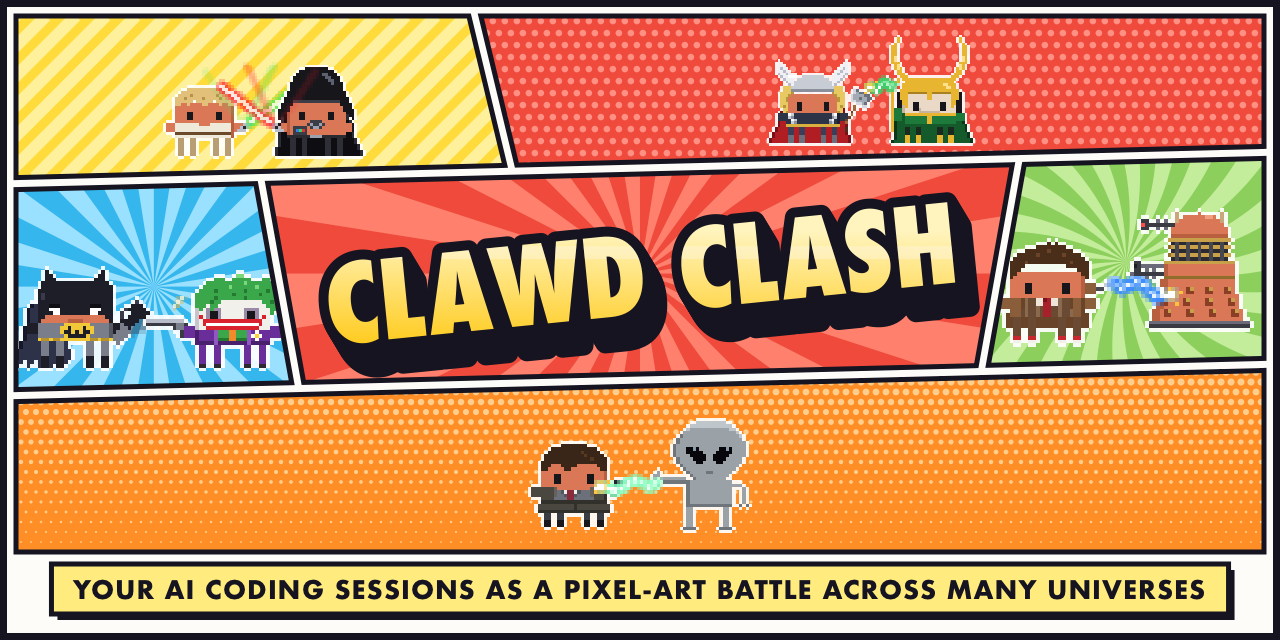
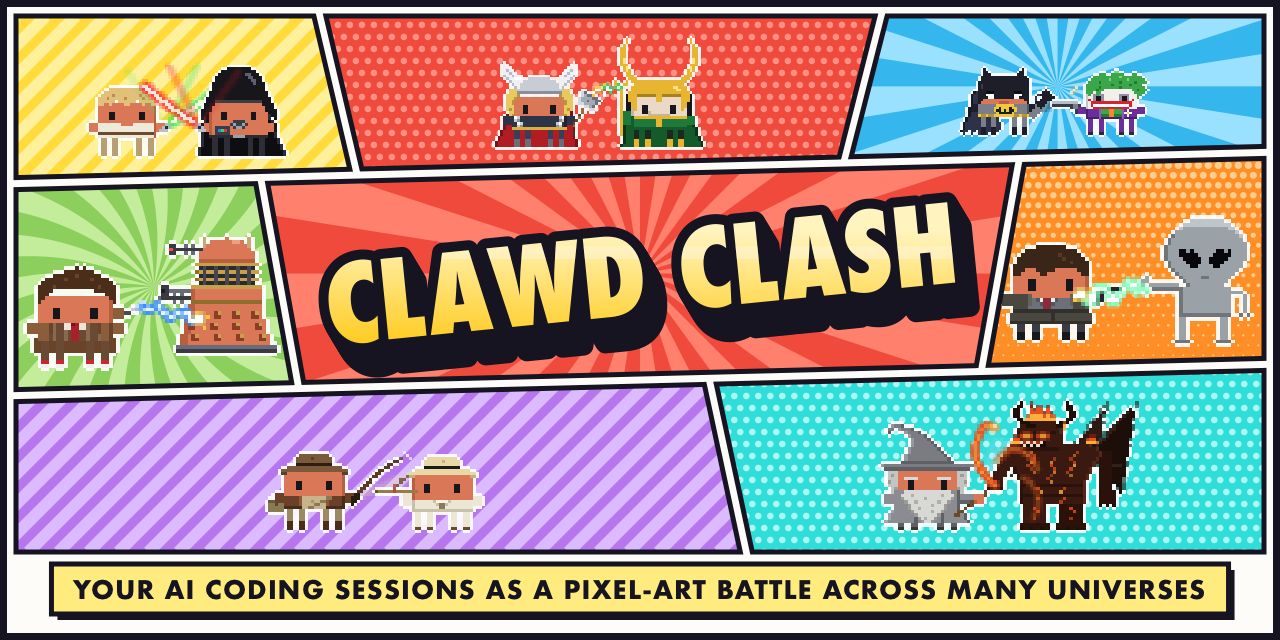
docs(social): Stevie Clawdberg and Clawd of the Rings join the social preview
docs/social-preview.png was last rendered on Oct 15 with five panels.
Two more Verses in Tools/MakeSocial (Indiana Bones v Rene Bellock in
the idol temple, Gandclawd v the Ballrog in Mori-ah), and style 8 lays
out seven panels on its own: three across the top, two flanking the
title, two along the bottom.

diff --git a/Tools/MakeSocial/main.swift b/Tools/MakeSocial/main.swift
@@ -4,7 +4,8 @@ import CoreText
 // Renders docs/social-preview.png (1280×640, GitHub → Settings → Social preview): a comic cover in slanted panels,
 // one per universe, each with a fight in full swing, drawn with the app's own sprite and fight-effect code: Luke and
 // Vader's sabers locked under the stars, Thor and Loki trading lightning and magic, Batman against the Joker, Doctor
-// Ten's sonic on a Dalick in the time vortex's blue, Fox Clawder against the Grey in the woods at night. CLAWD CLASH
+// Ten's sonic on a Dalick in the time vortex's blue, Fox Clawder against the Grey in the woods at night, Indiana Bones
+// against René Bellock, Gandclawd the Grey against the Ballrog. CLAWD CLASH
 // runs across them all, coloured by the panel each part is in, with a sound effect in each panel and the tagline in a
 // caption box. A new universe adds a panel: a cut, a centre, a sky, a floor, a fight, a sound and a face.
 //   swiftc Sources/App/{Pixel,Characters,Fights,Persona,Theme,Pose,Locations,Cast,Habits,Drills,Icon,Rides}.swift \
@@ -43,6 +44,10 @@ let allVerses: [Verse] = [
           burst: 0xFFB45A, face: (0xFFFFFF, 0x8FB8FF), sky: (0x2A4AC8, 0x0A0A2E), caption: "SOMEWHERE IN TIME…"),
     Verse(name: "THE CLAWD FILES", hero: .hero(FilesHero.foxClawder), villain: .villain(FilesVillain.grey), place: .bellefleurWoods, sound: "ZZZT!",
           burst: 0x9AF0C8, face: (0xFFFFFF, 0x6AE88A), sky: (0x2A5A44, 0x050A08), caption: "THE TRUTH IS OUT THERE…"),
+    Verse(name: "STEVIE CLAWDBERG", hero: .hero(ClawdbergHero.indianaBones), villain: .villain(ClawdbergVillain.reneBellock), place: .idolTemple,
+          sound: "CRACK!", burst: 0xFFD27A, face: (0xFFFFFF, 0xFFB43A), sky: (0xB8642A, 0x2A1208), caption: "IN A TEMPLE FAR AWAY…"),
+    Verse(name: "CLAWD OF THE RINGS", hero: .hero(RingsHero.gandalf), villain: .villain(RingsVillain.balrog), place: .moria, sound: "KA-THOOM!",
+          burst: 0xFF8A3A, face: (0xFFFFFF, 0xFFD27A), sky: (0x6A1E0A, 0x120604), caption: "DEEP IN THE MINES…"),
 ]
 /// `UNIVERSES=8` repeats the list up to that many, to see how a style holds up with more universes.
 let versesWanted = Int(ProcessInfo.processInfo.environment["UNIVERSES"] ?? "") ?? 0

diff --git a/CHANGELOG.md b/CHANGELOG.md
@@ -12,6 +12,7 @@ Doctor Clawd, the fourth, was made for Clawd Clash ([doctor-clawd](https://githu
 ## Unreleased
 
 ### Added
+- **Clawd Clash's social preview has every universe.** The pop-art cover GitHub shows when the repo is shared (`docs/social-preview.png`, from `Tools/MakeSocial`) had five panels, from before Stevie Clawdberg and Clawd of the Rings. It now has seven: Indiana Bones against René Bellock, and Gandclawd the Grey against the Ballrog.
 - **A guard for pull requests** (`scripts/pr-guard.py`, run on every PR by `.github/workflows/pr-guard.yml`). A universe is Swift compiled into the app, so a malicious one could use the app's Accessibility grant or rewrite the AIs' hooks. The guard reads a PR with git as plain text, never building or running it, and:
   - **sorts every changed file** into green (a universe's own folder, the docs' pictures, README, CHANGELOG), yellow (passes, listed for the maintainer to read closely: registration files and the rest of the app) and red (fails: build and release scripts, dotfiles such as `.github/` and `.claude/`, instructions for AI assistants, the hook and the code compiled into it, `HookInstaller`, `SaverInstaller`, `Jump`, `main.swift`, new core files, symlinks, executables);
   - **checks the Swift lines a PR adds to a universe folder**: no file, process, network, other-app, environment or app-internal APIs (including a call hidden in a string's `\( )`, or a backticked name), only the four imports drawing needs, no attributes such as `@_silgen_name`, no `#if` or macros, no `main.swift`;
